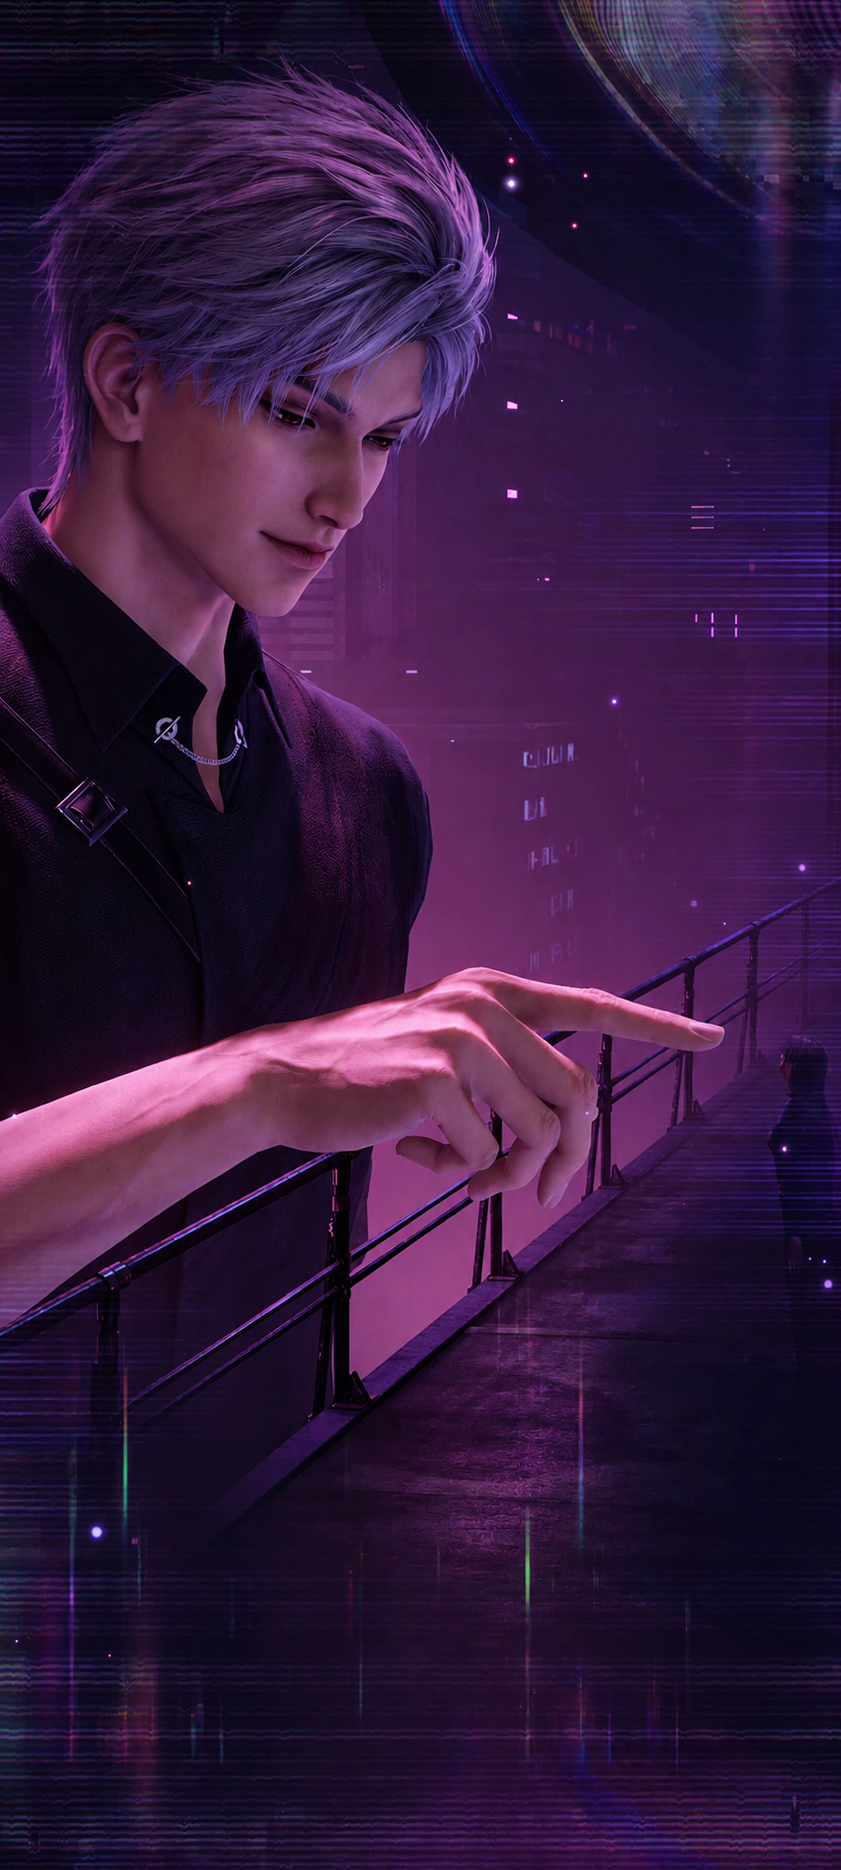
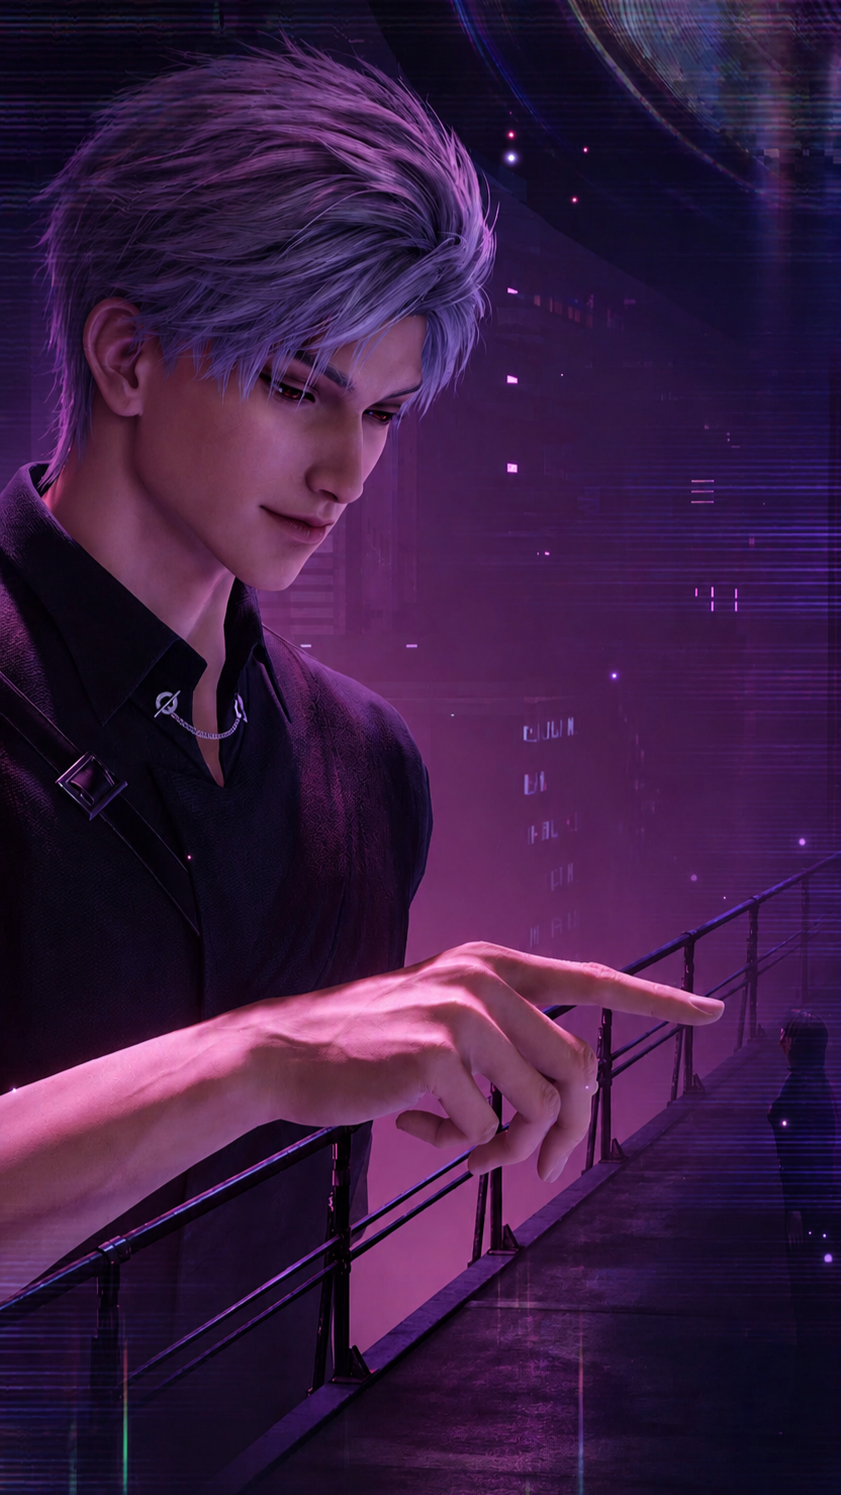
chỉnh ảnh nền

diff --git a/style.css b/style.css
@@ -14,16 +14,16 @@ button{background:none;border:0;padding:0;cursor:pointer;font:inherit;color:inhe
 img{display:block}
 
 /* ===== NỀN: phủ kín màn hình, giữ đúng tỉ lệ ảnh ===== */
-.stage{position:fixed;inset:0;overflow:hidden;background:#07030f}
+.stage{position:relative;inset:0;overflow:hidden;background:#07030f}
 .art{
   /* --fx / --fy: khi ảnh bị cắt bớt, 0 = giữ mép trái/trên, 1 = giữ mép phải/dưới */
-  --ar:.5625; --fx:.9; --fy:.5;
+  --ar:.44973;; --fx: 0.5; --fy:0.5;
   --w:max(100vw,calc(100dvh*var(--ar))); --h:max(100dvh,calc(100vw/var(--ar)));
   position:absolute;width:var(--w);height:var(--h);
   left:calc((100vw - var(--w))*var(--fx));top:calc((100dvh - var(--h))*var(--fy));
   background:url(assets/home.png) center/100% 100% no-repeat;
 }
-@media (min-aspect-ratio:1/1){.art{--ar:1.7778;--fx:.5;background-image:url(assets/home-pc.png)}}
+@media (min-aspect-ratio:1/1){.art{--ar:1.7778;--fx:.4;background-image:url(assets/home-pc.png)}}
 .snd{position:absolute;left:max(14px,env(safe-area-inset-left));top:max(14px,env(safe-area-inset-top));width:clamp(40px,8vw,64px);aspect-ratio:1;z-index:5}
 .snd img{width:100%;height:100%;object-fit:contain}
 .snd.on .off,.snd:not(.on) .on{display:none}
